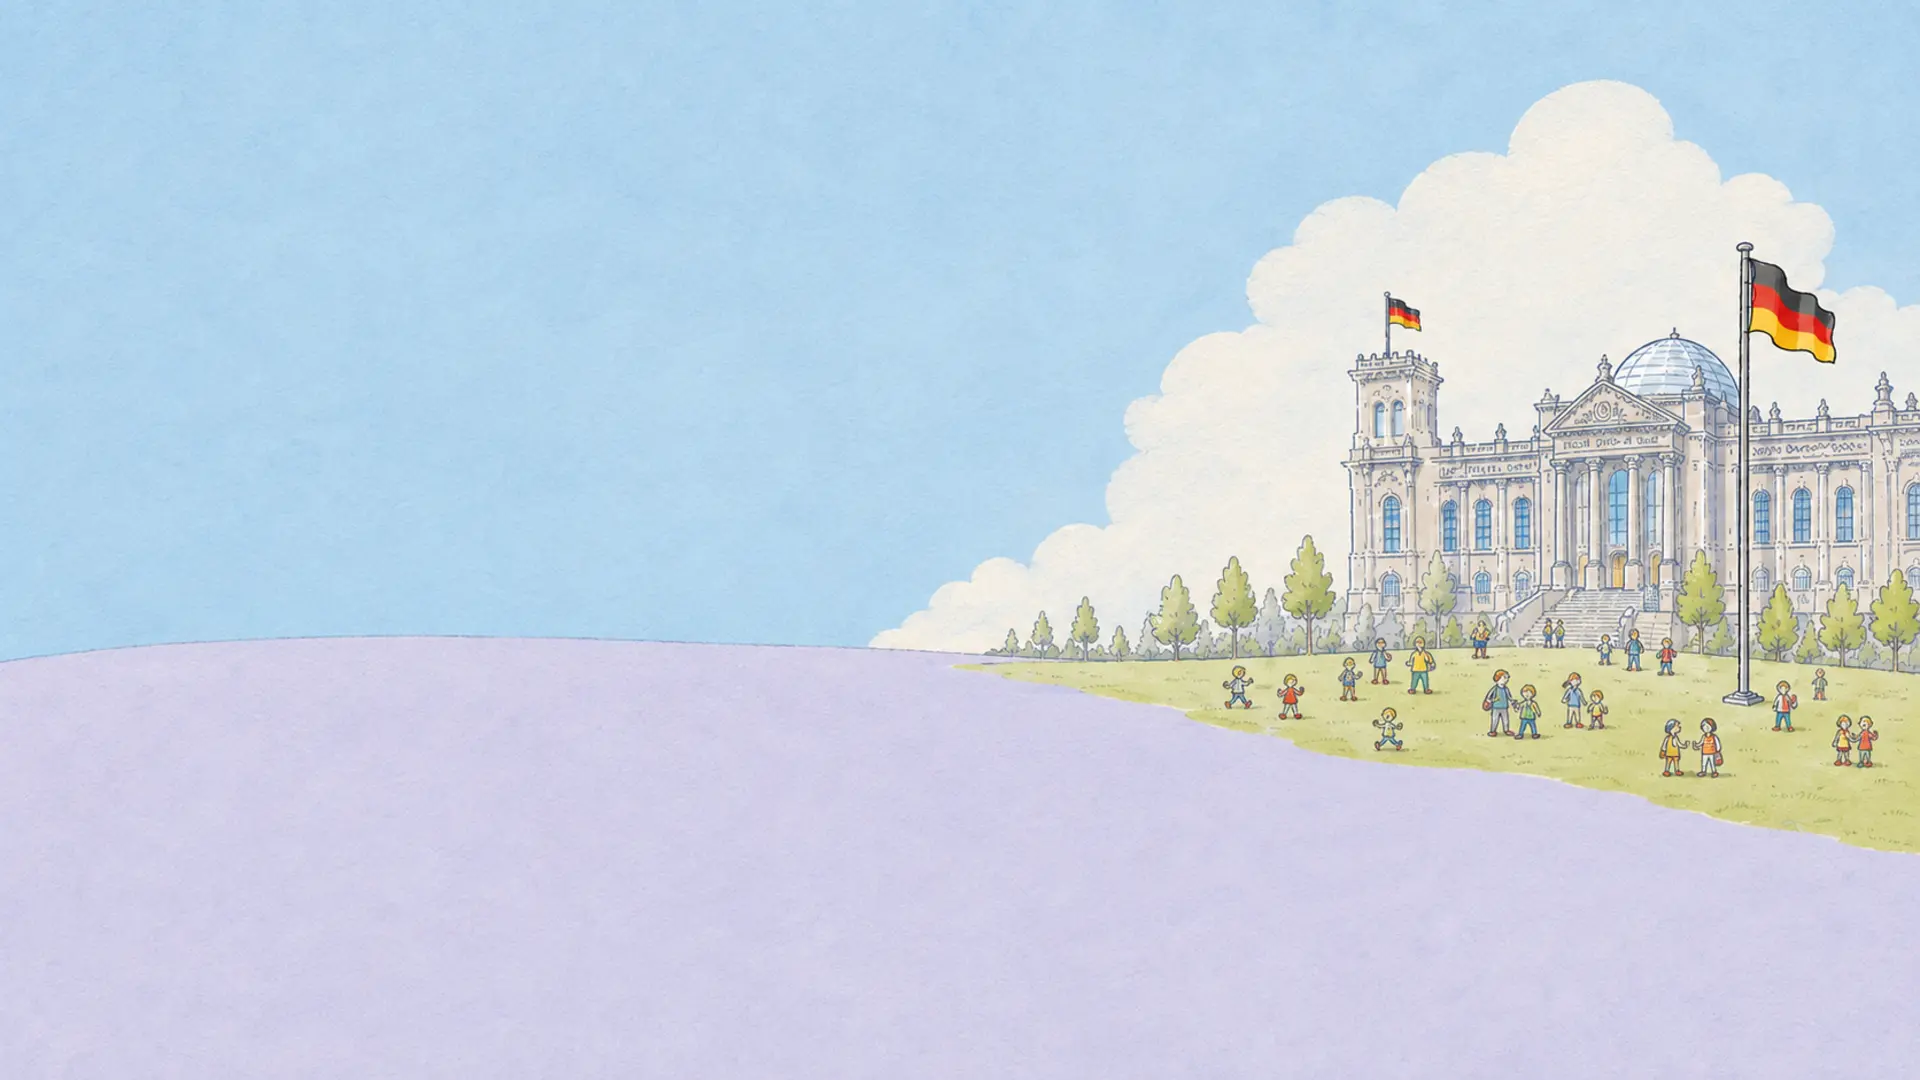
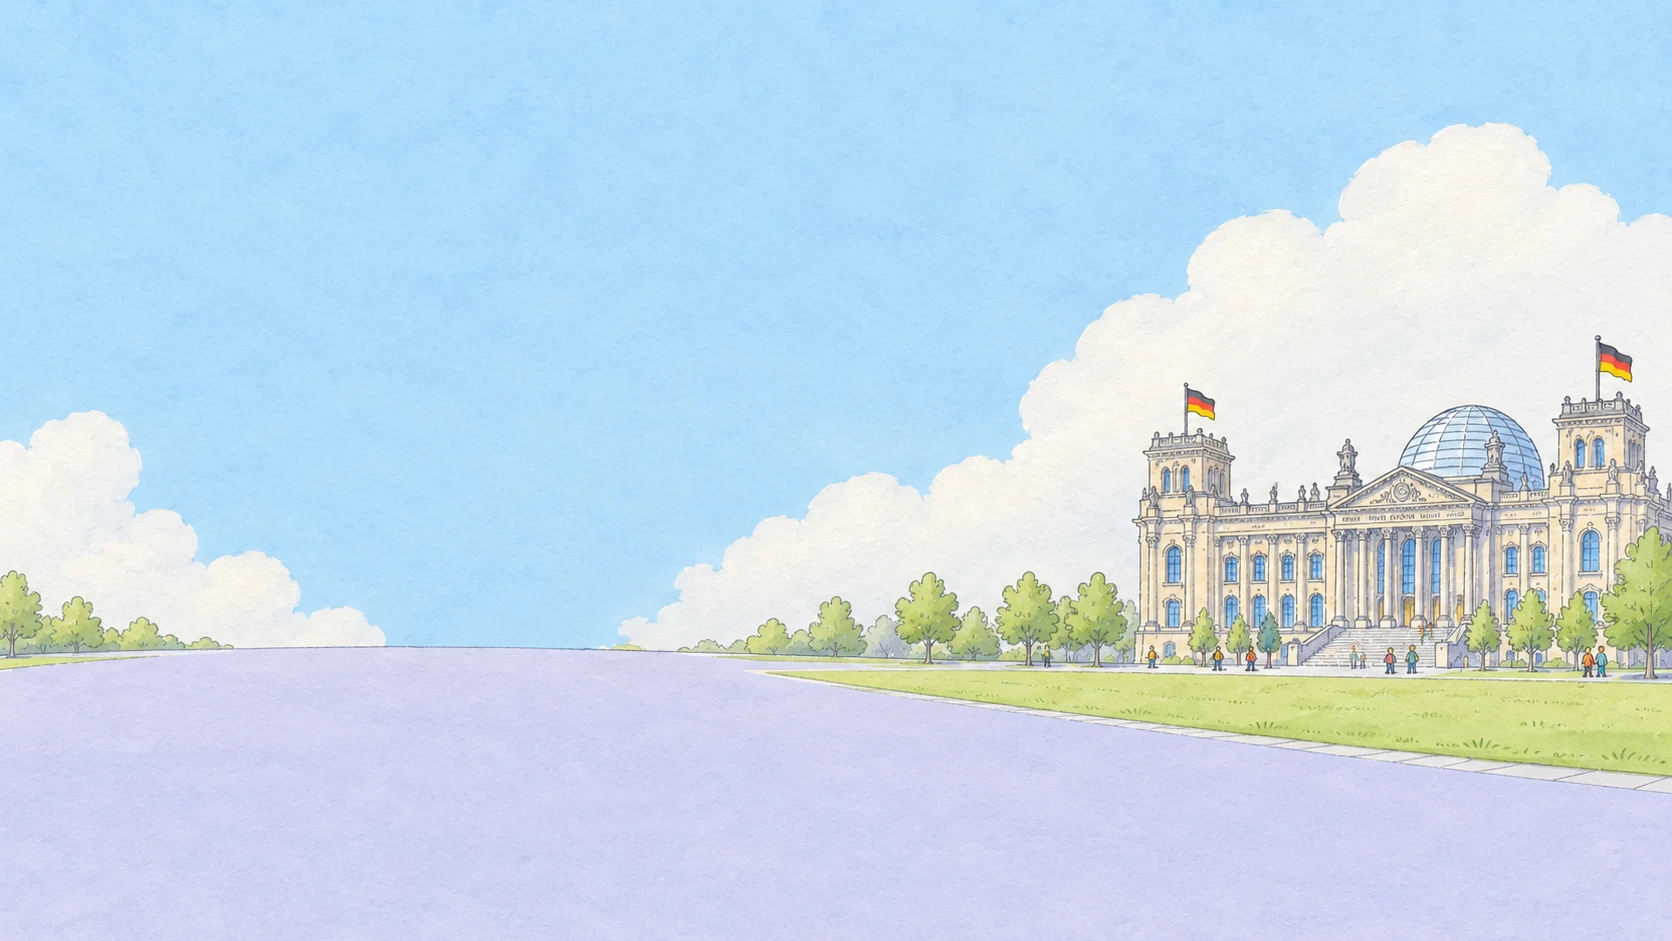
One scene for the children's world - the menu stands where the game does
THE DRAWING IS EXCHANGED. The house stands further off, the meadow and the
square in front of it are open, and the crowd that used to fill the lower
half is gone - question board, answers and score cards lie over paper and sky
now instead of over drawn people.

AND THE START MENU CARRIES THE SAME PICTURE. It used to be the bare paper
gradient, on the grounds that a scene with a parliament in it belongs to the
house and not to this world - but the world's own background has always shown
that house, so the rule separated two things that were never apart. Choosing
and playing happen in one place now, and a host that painted a picture of its
own behind the menu to get there does not have to any more.

The paper gradient stays under both: it is what stands there while the
drawing loads and in any format the drawing does not reach into. One asset
carries both surfaces, so whoever gives the children's quiz a different scene
exchanges it once.

The four children's baselines are recorded again - the picture behind them is
the whole of the change.

Claude-Session: https://claude.ai/code/session_01W6AMyFxM1uuq4WxSNdih4k

Changed region(s): [[0.0, 0.0616, 1.0, 0.8321]]

diff --git a/packages/react/src/game/Game.module.css b/packages/react/src/game/Game.module.css
@@ -467,19 +467,24 @@
 }
 
 /*
- * The background is the same paper the game stands on afterwards.
+ * THE MENU STANDS IN THE SAME SCENE THE GAME DOES.
  *
  * The dark gradient with the two coloured lights belongs to the adults'
  * selection; the bright paper world would nearly disappear on it, and the ink
- * on it would be unreadable.
+ * on it would be unreadable. What stands here instead is the drawn scene of
+ * this world (`.stage--kids` in `styles/stage.css`), so the choosing and the
+ * playing happen in one place - a host no longer has to paint a picture of
+ * its own behind the menu to get there.
  *
- * A HOST MAY PAINT A SCENE OVER IT - the media table puts the drawn house
- * behind its children's menu - and that picture belongs to the house, not to
- * this world: the quiz would otherwise carry a Reichstag into every foyer that
- * embeds it.
+ * It is the world's picture and not a house's: whoever gives the children's
+ * quiz a different scene exchanges this one asset, and both surfaces follow.
+ * The paper gradient stays underneath - it is what stands there while the
+ * drawing loads, and in any format the drawing does not reach into.
  */
 [data-skin='kids'].startScreen {
-  background: linear-gradient(180deg, var(--color-pageTop), var(--color-pageBottom));
+  background:
+    url('../assets/kinderquiz/backgrounds/karlchen-quiz-scene-16x9.webp') right center / cover no-repeat,
+    linear-gradient(180deg, var(--color-pageTop), var(--color-pageBottom));
 }
 
 /*

diff --git a/.changeset/one-scene-for-the-childrens-world.md b/.changeset/one-scene-for-the-childrens-world.md
@@ -1,0 +1,23 @@
+---
+'@hfroemmel/quiz-react': patch
+---
+
+One scene for the children's world - the menu now stands where the game does.
+
+THE DRAWING IS EXCHANGED (`assets/kinderquiz/backgrounds/karlchen-quiz-scene-16x9.webp`):
+the house stands further off, the meadow and the square in front of it are
+open, and the crowd that used to fill the lower half is gone. Question board,
+answers and the score cards lie over paper and sky now instead of over a
+drawn crowd.
+
+AND THE START MENU CARRIES THE SAME PICTURE. It used to be the bare paper
+gradient, on the grounds that a scene with a parliament in it belongs to the
+house and not to this world - but the world's own background has always shown
+that house, so the rule separated two things that were never apart. Choosing
+and playing happen in one place now, and a host that painted a picture of its
+own behind the menu to get there does not have to any more.
+
+The paper gradient stays underneath both: it is what stands there while the
+drawing loads, and in any format the drawing does not reach into. Whoever
+gives the children's quiz a different scene exchanges this one asset, and both
+surfaces follow.
